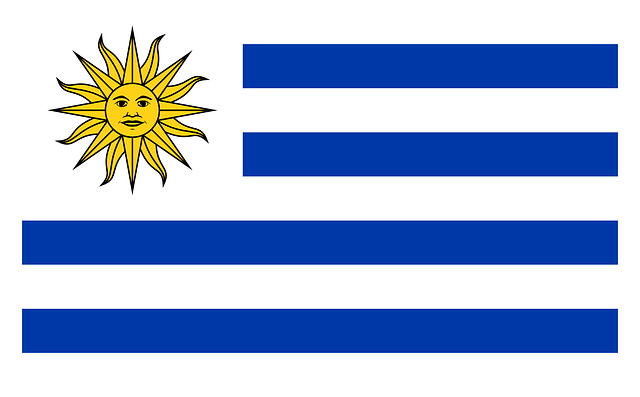
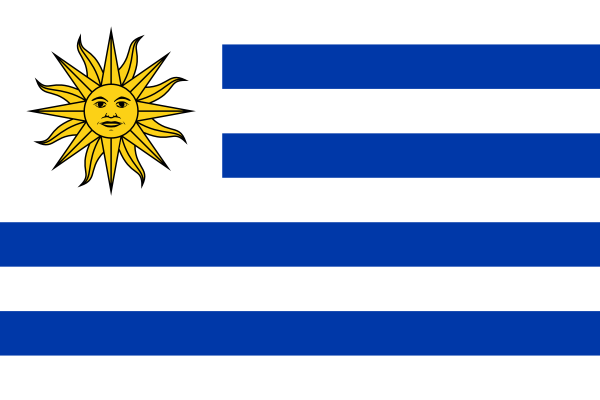
Updated css color styles, updated uruguay flag as dimensions were off

diff --git a/assets/css/style.css b/assets/css/style.css
@@ -25,7 +25,7 @@ h4 {
 }
 
 .game-area {
-    background-color: rgba(255, 217, 0, 0.945);
+    background-color:rgba(255, 217, 0, 0.945);
     display: flex;
     flex-direction: column;
     max-width: 320px;
@@ -55,9 +55,16 @@ h4 {
     padding-top: 5px;
 }
 
+/* Set width of username Input box. */
+#username {
+    width: 150px;
+}
 /* Add effects to change the background color of the text input box when in use. */ 
 .usernameBox:focus {
-    background-color: rgb(146, 240, 6);
+    /*background-color: rgb(146, 240, 6);*/
+    /*background-color: rgb(248, 245, 245);*/
+    background-color: rgba(255, 217, 0, 0.945);
+    box-shadow: 3px 3px 2px 0px rgba(10, 1, 54, 0.5)
 }
 
 .score {
@@ -160,10 +167,6 @@ h4 {
     margin-left: 22px;
 }
 
-/* Set width of username Input box. */
-#username {
-    width: 150px;
-}
 
 .quit-control {
     display: flex;
@@ -180,7 +183,7 @@ h4 {
     width: 75px;
     border: 2px solid grey;
     border-radius: 50%;
-    background-color: rgb(247, 7, 7);
+    background-color: rgb(255, 49, 49); /* rgb(252, 63, 63); /*rgb(247, 7, 7);*/
     text-shadow: 0 0 10px black;
     
 }
@@ -210,7 +213,9 @@ h4 {
     padding: 5px;
     width: 100%;
     text-align: center;
-    background-color: rgb(146, 240, 6);
+    background-color: rgb(231, 243, 247);
+    border: solid 1px black;
+    border-radius: 10px;
 }
 
 
@@ -219,6 +224,26 @@ h4 {
 
     
 }
+#s-table tr:nth-child(2) {
+    background-color: rgb(255, 255, 0); /*rgb(51, 200, 250);*/
+}
+
+#s-table tr:nth-child(3) {
+    background-color: rgb(192, 192, 192) /*rgb(255, 104, 104);*/
+}
+
+#s-table tr:nth-child(4) {
+    background-color: rgb(243, 165, 87) /*rgb(248, 248, 133); /* rgba(199, 91, 29, 0.658);*/
+}
+
+#s-table tr:nth-child(5) {
+    background-color: white;
+}
+
+#s-table tr:nth-child(6) {
+    background-color: white; /* rgb(169, 121, 248);*/
+}
+
 
 /*Media query: tablets and larger (768px and up)*/
 @media screen and (min-width: 768px) {

diff --git a/assets/js/script.js b/assets/js/script.js
@@ -172,13 +172,13 @@ function checkAnswer(event) {
     let correctAnswer = flagIndex;
     let myAnswerBtn = event.target;
     if (myAnswer === correctAnswer) {
-        myAnswerBtn.style.backgroundColor = "green";
+        myAnswerBtn.style.backgroundColor = "rgb(6, 240, 45)"; //"green";
         increaseScore();
         removeFlag();
     } else {
-       myAnswerBtn.style.backgroundColor = "red";
+       myAnswerBtn.style.backgroundColor = "rgb(255, 49, 49)";
     }
-
+  
    //set timeout before resetting button backgrounds
    setTimeout(clearAnswers, 1100);
    
@@ -255,10 +255,10 @@ function gameOver(){
     </div>
 
     <div class = "score-board-container">
-        <h2>Well done</h2>
+        <h2>Well Done</h2>
         <h2>${username}!</h2>
-        <h2>You scored ${score}</h2>
-        <table id = "s-table" class = "scores-table">
+        <h2>You Scored ${score}</h2>
+        <table id = "s-table" class = "scores-table" aria-label = "leaderboard of top 5 scorers">
             <tbody>
                 <th>Username</th>
                 <th>Score</th>
